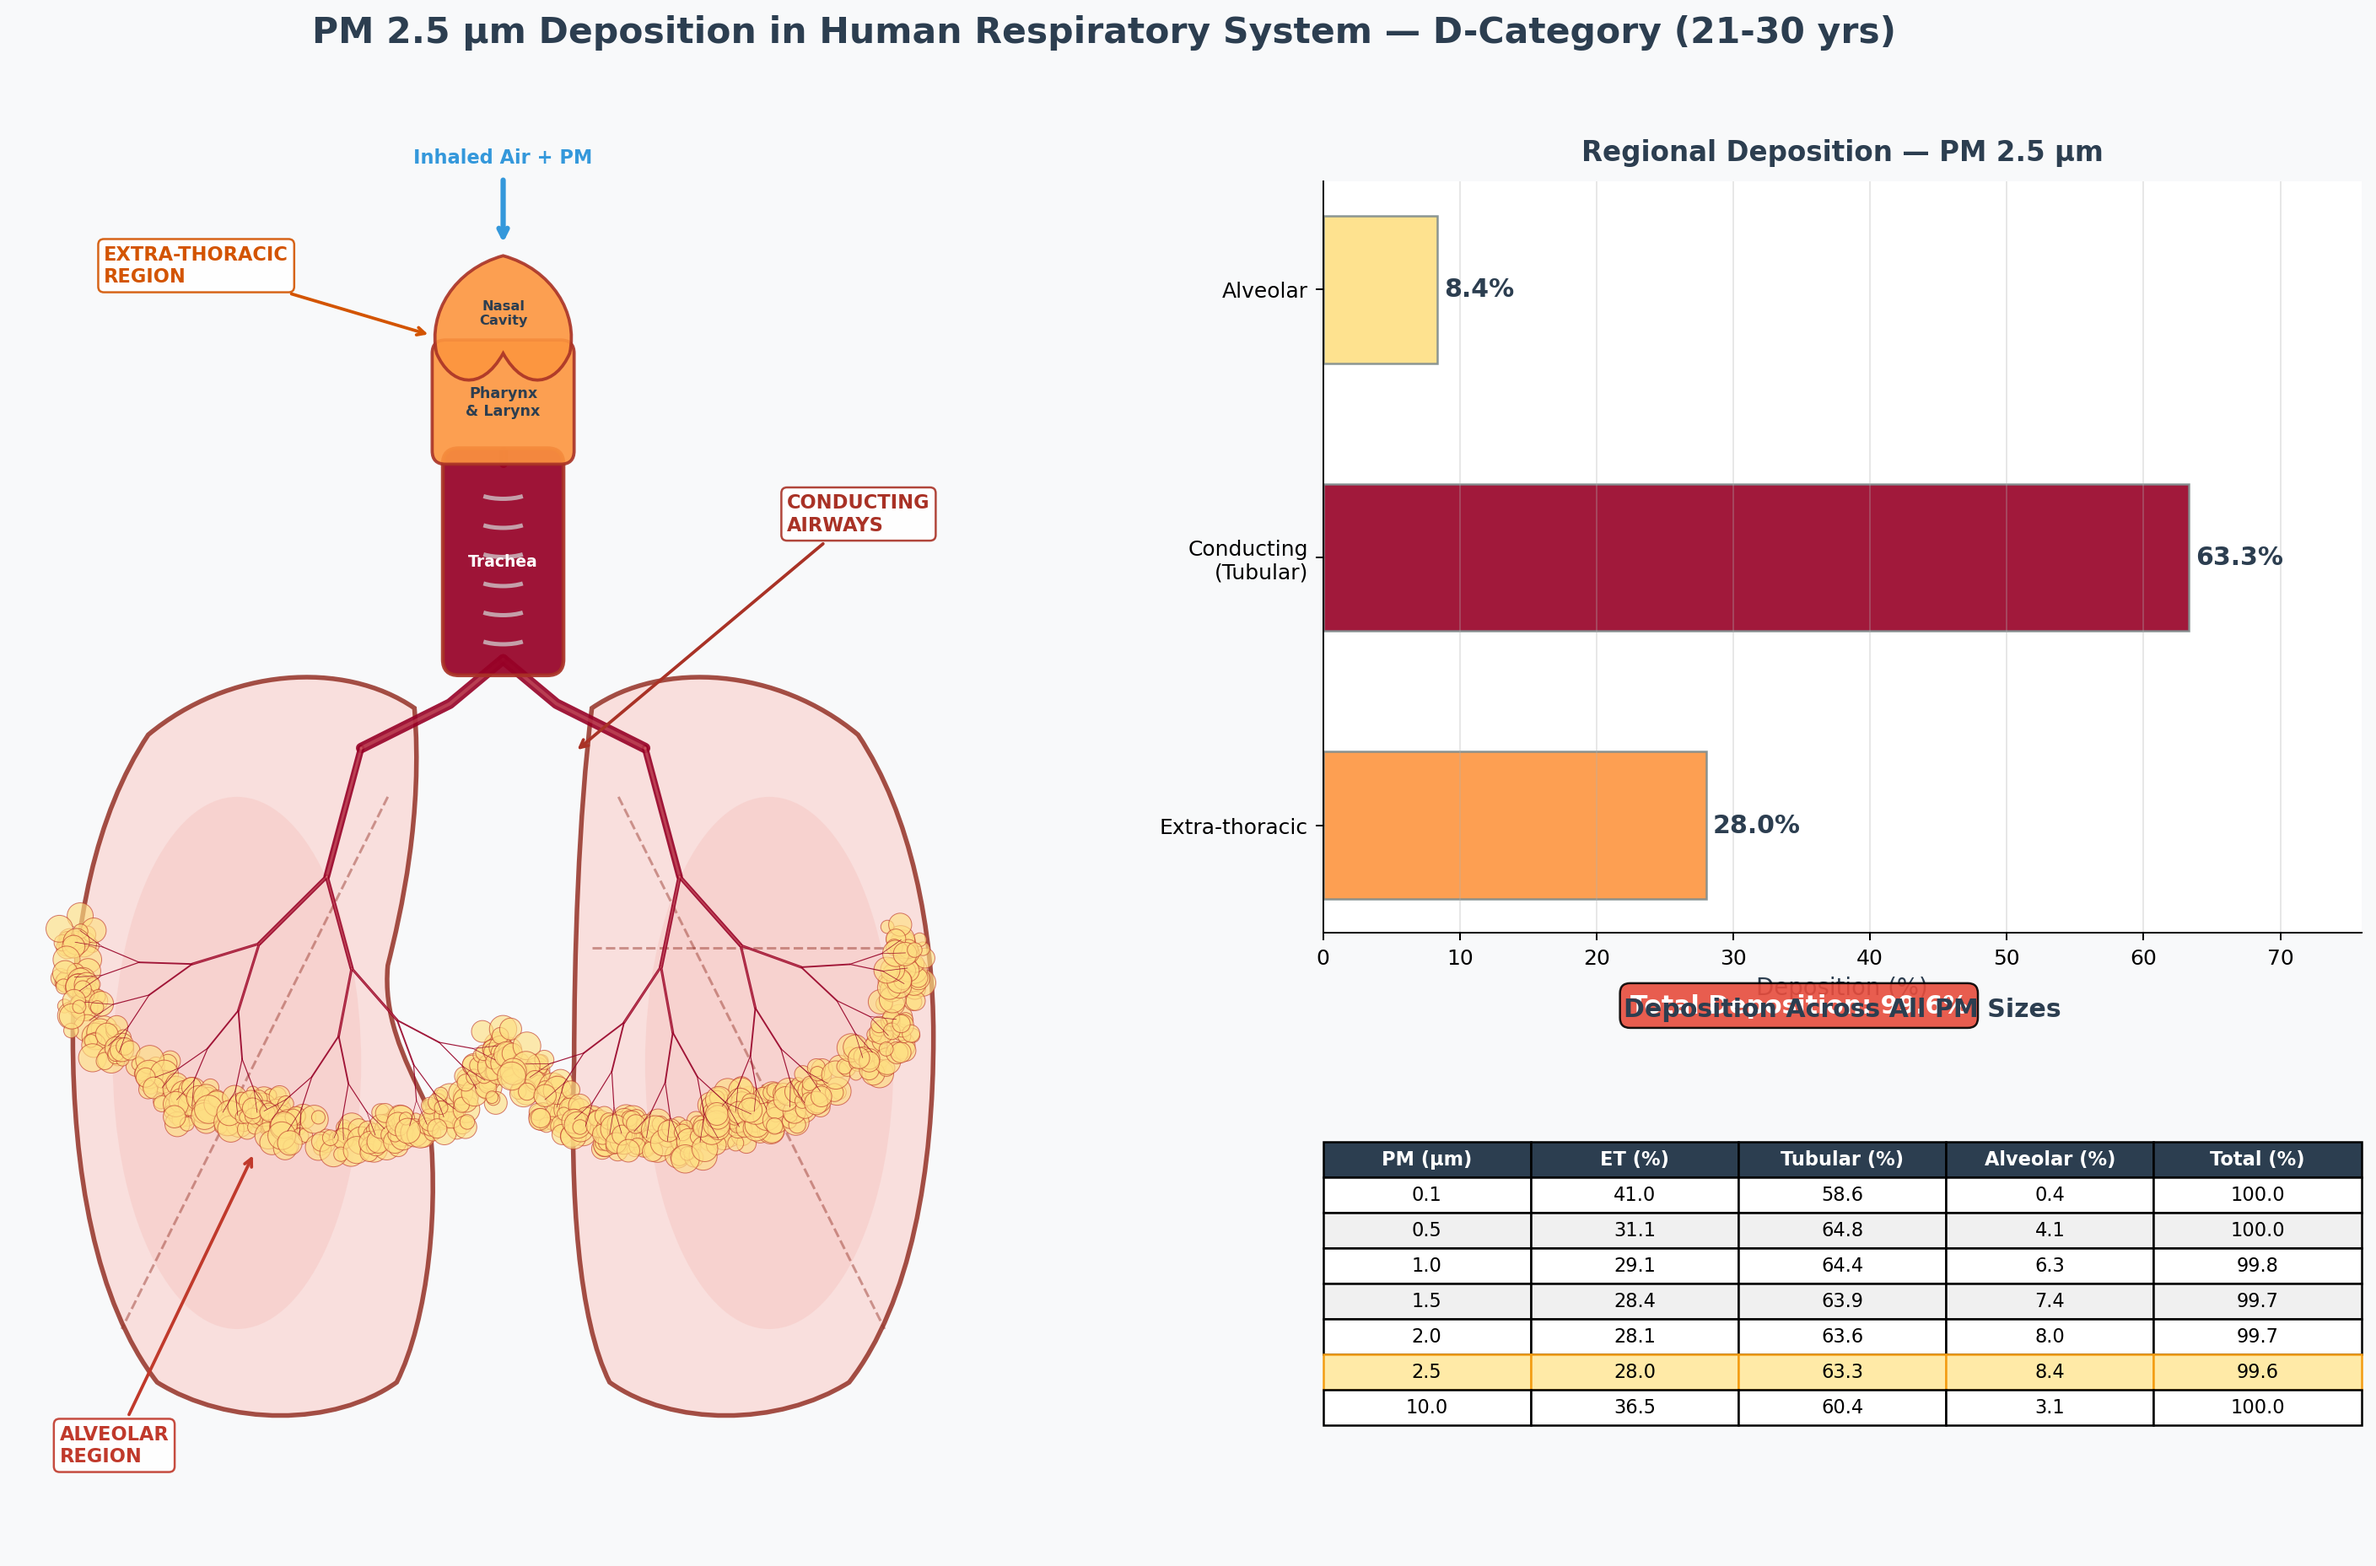
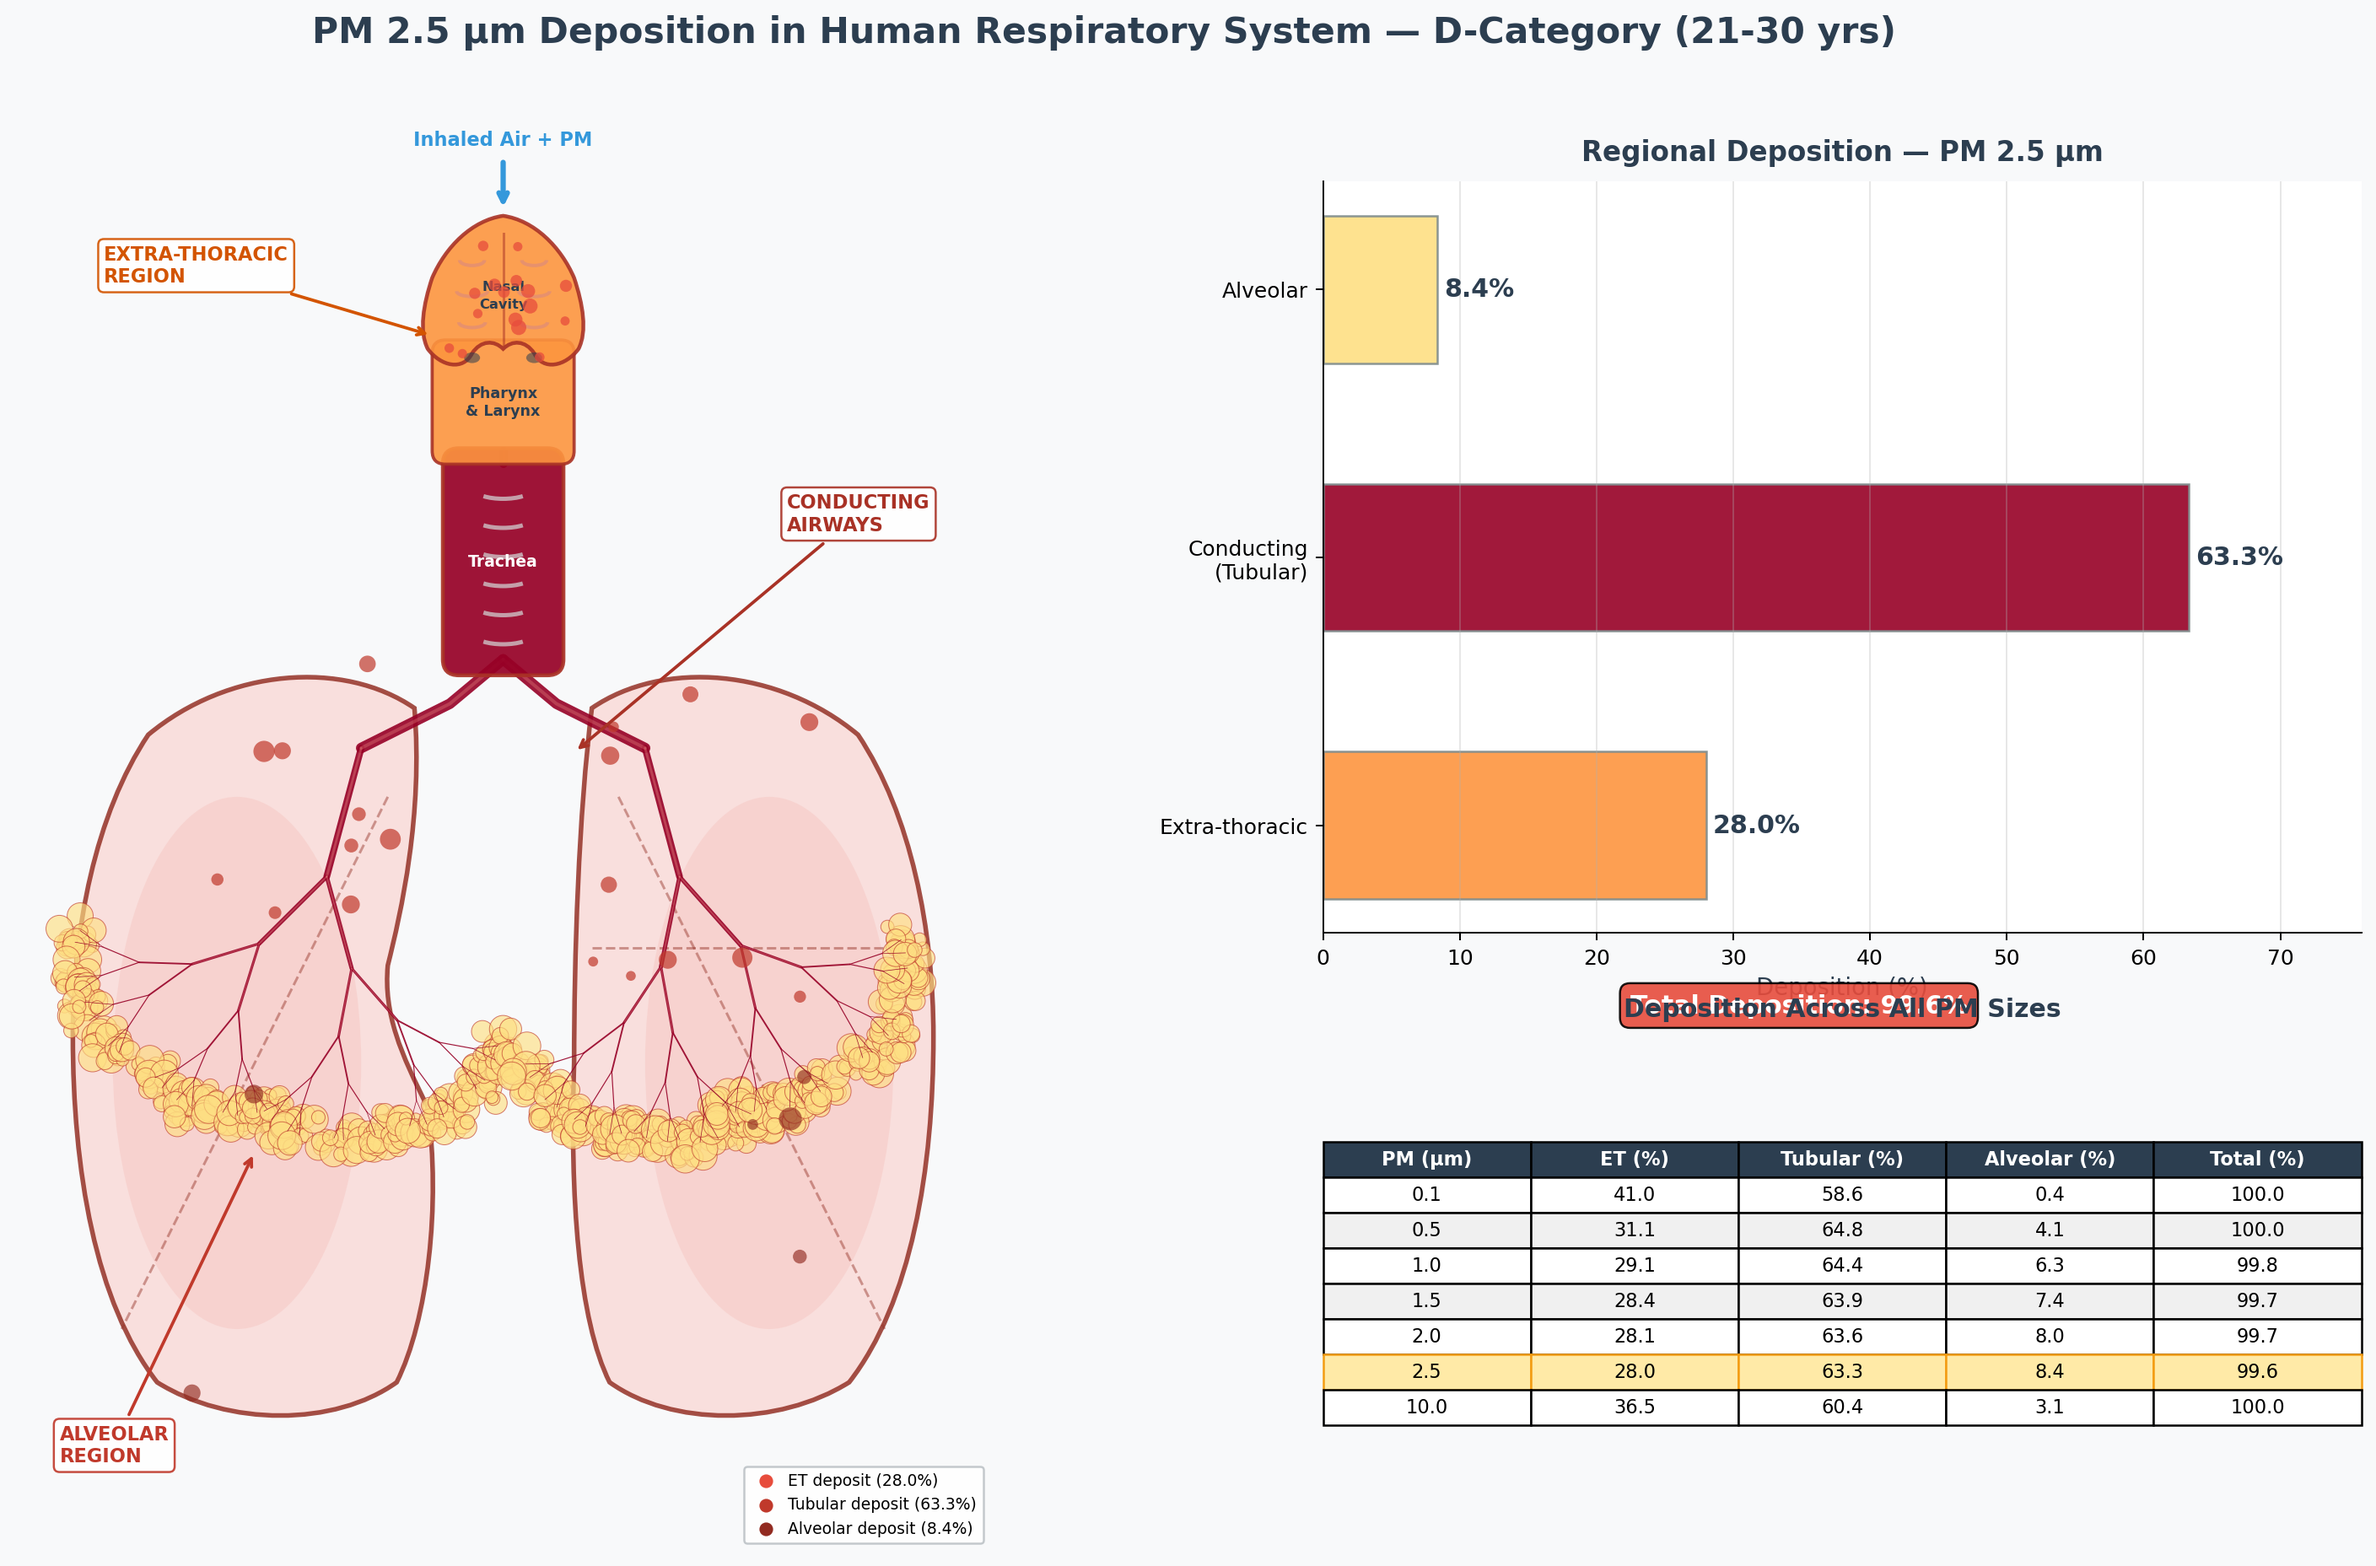
feat: Enhance lung infographic with detailed nasal cavity and PM deposition visualization

diff --git a/pollution-particle.py b/pollution-particle.py
@@ -661,19 +661,44 @@ def generate_lung_infographic(results: Dict, age_label: str,
     ax_lung.plot([5, 5], [11.9, conn_top], color=mucosa_c, linewidth=1.8,
                  solid_capstyle='round', alpha=0.45, zorder=5)
 
-    # ======== NASAL CAVITY ========
-    nose_v = [
-        (5.0, 14.1),
-        (4.45, 13.95), (4.15, 13.45), (4.25, 13.0),
-        (4.4, 12.65), (4.75, 12.55), (5.0, 13.0),
-        (5.25, 12.55), (5.6, 12.65), (5.75, 13.0),
-        (5.85, 13.45), (5.55, 13.95), (5.0, 14.1),
-        (5.0, 14.1),
+    # ======== NASAL CAVITY (anatomical nose with septum & turbinates) ========
+    # Outer nose silhouette — bridge, tip, nostrils, base
+    nose_outer = [
+        (5.0, 14.55),                                          # top of bridge
+        (4.65, 14.5), (4.35, 14.2), (4.2, 13.85),            # left bridge curve
+        (4.1, 13.55), (4.05, 13.25), (4.15, 13.05),          # left side down
+        (4.3, 12.85), (4.55, 12.8), (4.65, 13.0),            # left nostril notch
+        (4.75, 13.15), (4.9, 13.15), (5.0, 13.05),           # septum dip
+        (5.1, 13.15), (5.25, 13.15), (5.35, 13.0),           # right nostril notch
+        (5.45, 12.8), (5.7, 12.85), (5.85, 13.05),           # right side
+        (5.95, 13.25), (5.9, 13.55), (5.8, 13.85),           # right side up
+        (5.65, 14.2), (5.35, 14.5), (5.0, 14.55),            # right bridge
+        (5.0, 14.55),
     ]
-    nc = [Path.MOVETO] + [Path.CURVE4] * 12 + [Path.CLOSEPOLY]
-    ax_lung.add_patch(PathPatch(Path(nose_v, nc), facecolor=et_color,
-                                edgecolor=airway_wall, linewidth=1.5, alpha=0.9, zorder=6))
-    ax_lung.text(5, 13.45, 'Nasal\nCavity', ha='center', va='center',
+    nose_codes = [Path.MOVETO] + [Path.CURVE4] * 24 + [Path.CLOSEPOLY]
+    ax_lung.add_patch(PathPatch(Path(nose_outer, nose_codes), facecolor=et_color,
+                                edgecolor=airway_wall, linewidth=1.8, alpha=0.9, zorder=6))
+    # Nasal septum (vertical midline)
+    ax_lung.plot([5.0, 5.0], [14.35, 13.1], color=airway_wall,
+                 linewidth=1.2, alpha=0.5, zorder=7)
+    # Turbinate ridges (three curved shelves per side)
+    for ty, tw in [(14.05, 0.28), (13.7, 0.35), (13.35, 0.30)]:
+        # left turbinate
+        ax_lung.add_patch(Arc((4.65, ty), tw, 0.12, angle=0,
+                              theta1=180, theta2=360, color='#d98880',
+                              linewidth=1.6, alpha=0.6, zorder=7))
+        # right turbinate
+        ax_lung.add_patch(Arc((5.35, ty), tw, 0.12, angle=0,
+                              theta1=180, theta2=360, color='#d98880',
+                              linewidth=1.6, alpha=0.6, zorder=7))
+    # Nostril openings
+    ax_lung.add_patch(Ellipse((4.65, 12.95), 0.18, 0.12, facecolor='#2c3e50',
+                               edgecolor='none', alpha=0.55, zorder=7))
+    ax_lung.add_patch(Ellipse((5.35, 12.95), 0.18, 0.12, facecolor='#2c3e50',
+                               edgecolor='none', alpha=0.55, zorder=7))
+    ax_lung.text(5, 13.75, 'Nasal', ha='center', va='center',
+                 fontsize=6.5, fontweight='bold', color='#2c3e50', zorder=8)
+    ax_lung.text(5, 13.55, 'Cavity', ha='center', va='center',
                  fontsize=6.5, fontweight='bold', color='#2c3e50', zorder=8)
 
     # ======== MAIN BRONCHI (carina) ========
@@ -701,6 +726,62 @@ def generate_lung_infographic(results: Dict, age_label: str,
                                        facecolor=al_color, edgecolor='#c0392b',
                                        linewidth=0.4, alpha=0.65, zorder=3))
 
+    # ======== PM DEPOSITION SPOTS ========
+    # Scatter coloured dots proportional to deposition in each region
+    dep_rng = np.random.default_rng(99)
+    spot_cmap = plt.cm.hot_r  # warm colours for deposited particles
+
+    # --- ET region spots (nasal/pharynx area) ---
+    n_et = max(3, int(et_dep * 0.6))
+    for _ in range(n_et):
+        sx = dep_rng.uniform(4.25, 5.75)
+        sy = dep_rng.uniform(12.9, 14.3)
+        sr = dep_rng.uniform(0.04, 0.09)
+        ax_lung.add_patch(Ellipse((sx, sy), sr * 2, sr * 2,
+                                   facecolor='#e74c3c', edgecolor='none',
+                                   alpha=0.75, zorder=9))
+
+    # --- Tubular region spots (trachea & bronchi) ---
+    n_tb = max(5, int(tb_dep * 0.5))
+    for _ in range(n_tb):
+        sx = dep_rng.uniform(1.5, 8.5)
+        sy = dep_rng.uniform(5.0, 9.5)
+        # keep within lung outlines roughly
+        if sx < 5:
+            if sx < 0.5 or sx > 4.2:
+                continue
+        else:
+            if sx > 9.5 or sx < 5.8:
+                continue
+        sr = dep_rng.uniform(0.05, 0.12)
+        ax_lung.add_patch(Ellipse((sx, sy), sr * 2, sr * 2,
+                                   facecolor='#c0392b', edgecolor='none',
+                                   alpha=0.7, zorder=9))
+
+    # --- Alveolar region spots (lower lung periphery) ---
+    n_al = max(3, int(al_dep * 0.8))
+    for _ in range(n_al):
+        sx = dep_rng.uniform(0.6, 9.4)
+        sy = dep_rng.uniform(1.2, 5.0)
+        # keep within lung silhouettes
+        if sx < 5:
+            if sx < 0.4 or sx > 4.1:
+                continue
+        else:
+            if sx > 9.6 or sx < 5.9:
+                continue
+        sr = dep_rng.uniform(0.06, 0.14)
+        ax_lung.add_patch(Ellipse((sx, sy), sr * 2, sr * 2,
+                                   facecolor='#922b21', edgecolor='none',
+                                   alpha=0.65, zorder=9))
+
+    # Deposition legend
+    ax_lung.scatter([], [], c='#e74c3c', s=30, label=f'ET deposit ({et_dep:.1f}%)')
+    ax_lung.scatter([], [], c='#c0392b', s=30, label=f'Tubular deposit ({tb_dep:.1f}%)')
+    ax_lung.scatter([], [], c='#922b21', s=30, label=f'Alveolar deposit ({al_dep:.1f}%)')
+    ax_lung.legend(loc='lower right', fontsize=7.5, framealpha=0.9,
+                   edgecolor='#bdc3c7', fancybox=True, handletextpad=0.4)
+
     # ======== REGION LABELS ========
     ax_lung.annotate('EXTRA-THORACIC\nREGION', xy=(4.2, 13.2), xytext=(0.5, 13.8),
                      fontsize=9, fontweight='bold', color='#d35400',
@@ -719,10 +800,10 @@ def generate_lung_infographic(results: Dict, age_label: str,
                                edgecolor='#c0392b', alpha=0.9), zorder=10)
 
     # Airflow arrow
-    ax_lung.annotate('', xy=(5, 14.2), xytext=(5, 15.0),
+    ax_lung.annotate('', xy=(5, 14.6), xytext=(5, 15.2),
                      arrowprops=dict(arrowstyle='->', color='#3498db', lw=2.5),
                      zorder=10)
-    ax_lung.text(5, 15.1, 'Inhaled Air + PM', ha='center', va='bottom',
+    ax_lung.text(5, 15.3, 'Inhaled Air + PM', ha='center', va='bottom',
                  fontsize=9, color='#3498db', fontweight='bold', zorder=10)
 
     # ----------------------------------------------------------------
